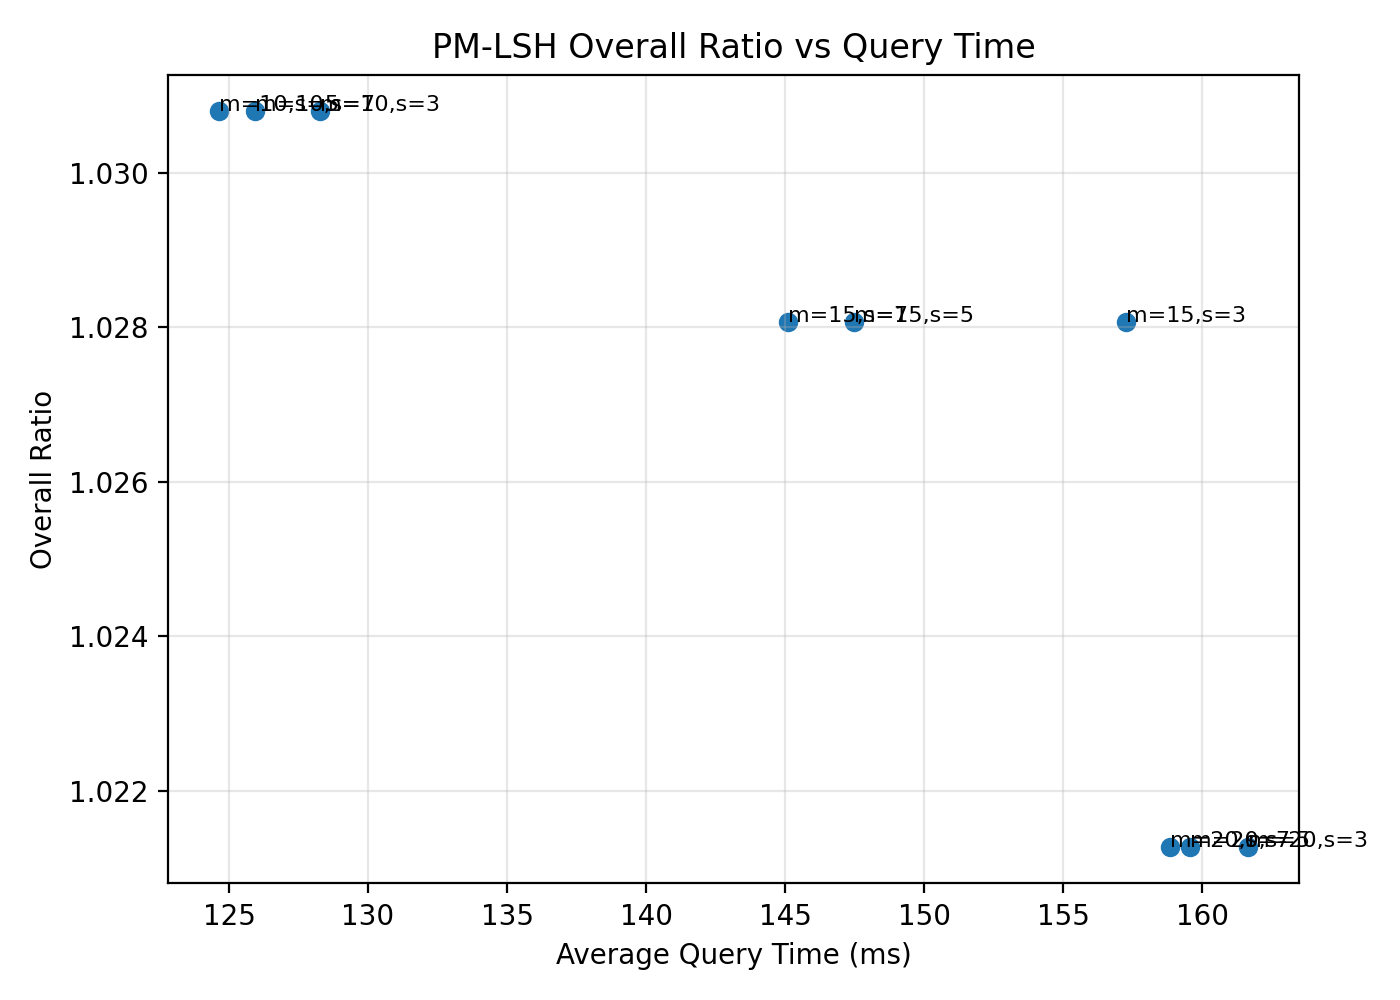
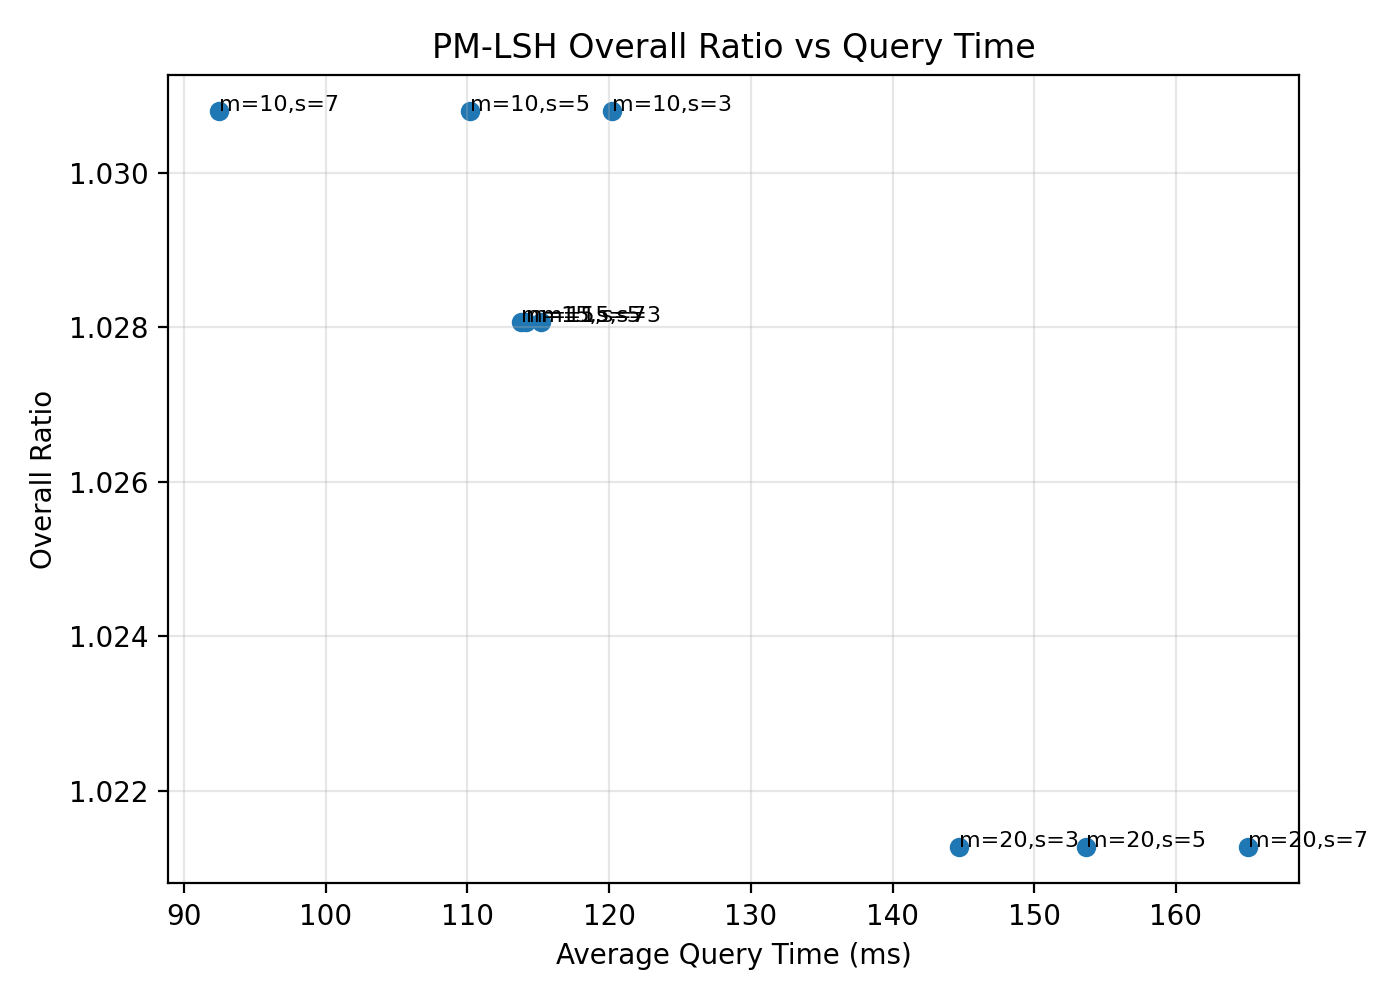
Fix benchmark timing, document honest results, clean repo
- evaluate.py: time PM-LSH and brute force separately (brute force was
  previously inside the PM-LSH timing loop); report brute-force ms and
  rerank fraction
- Rerun sweep; regenerate results CSV/JSON/plots
- README: results table, limitations (slower than brute force in pure
  Python, pivots do not affect recall)
- Rename gitignore to .gitignore, untrack __pycache__, add requirements.txt

diff --git a/evaluate.py b/evaluate.py
@@ -55,10 +55,16 @@ def evaluate_one_config(
     total_expansions = 0
     empty_results = 0
 
-    t0 = time.perf_counter()
+    query_time = 0.0
+    brute_time = 0.0
     for q, yq in zip(X_test[:n_queries], y_test[:n_queries]):
+        t0 = time.perf_counter()
         ids, dists, stats = model.query_ckann(q, k=k)
+        query_time += time.perf_counter() - t0
+
+        t0 = time.perf_counter()
         bf_ids, bf_dists = brute_force_topk(X_train, q, k=k)
+        brute_time += time.perf_counter() - t0
 
         approx_ids.append(ids)
         approx_dists.append(dists)
@@ -73,7 +79,6 @@ def evaluate_one_config(
             empty_results += 1
         elif y_train[ids[0]] == yq:
             same_label_hits += 1
-    query_time = time.perf_counter() - t0
 
     recall_vals = []
     ratio_vals = []
@@ -91,6 +96,8 @@ def evaluate_one_config(
         "build_time_sec": build_time,
         "query_total_time_sec": query_time,
         "avg_query_ms": query_time / n_queries * 1000.0,
+        "avg_bruteforce_ms": brute_time / n_queries * 1000.0,
+        "rerank_fraction": (total_candidates / n_queries) / len(X_train),
         "recall": float(np.mean(recall_vals)),
         "overall_ratio": float(np.mean(ratio_vals)) if ratio_vals else float("inf"),
         "same_label_accuracy": same_label_hits / n_queries,
@@ -192,9 +199,11 @@ def main():
                 "m",
                 "n_pivots",
                 "avg_query_ms",
+                "avg_bruteforce_ms",
                 "recall",
                 "overall_ratio",
                 "avg_candidates",
+                "rerank_fraction",
                 "avg_expansions",
                 "beta",
             ]

diff --git a/README.md b/README.md
@@ -1,41 +1,52 @@
-# PM-LSH-Style Research Reimplementation
+# PM-LSH in Python
 
-This project is a **research-style Python reimplementation** of the main PM-LSH framework described in:
+A from-scratch Python reimplementation of **PM-LSH** (Zheng et al., *PM-LSH: A Fast and Accurate LSH Framework for High-Dimensional Approximate Nearest Neighbor Search*, PVLDB 2020), evaluated on MNIST.
 
-> Zheng et al., **PM-LSH: A Fast and Accurate LSH Framework for High-Dimensional Approximate NN Search**, PVLDB 2020.
+This is **not** the authors' C++ code. It is a clean-room implementation of the paper's core ideas, written to understand the algorithm and measure its accuracy/cost trade-offs.
 
-It implements the paper's core ideas:
-- Gaussian random projections into an `m`-dimensional projected space
-- A **PM-tree** over projected points instead of flat hash buckets
-- A **chi-square confidence-interval mapping** from original-space radius to projected-space radius
-- A **range-expansion query algorithm** for `(c, k)`-ANN search
+## What it implements
 
-## Important note
+- **Gaussian random projection** from 784 dimensions down to `m` dimensions.
+- **PM-tree** (`pmtree.py`): a metric index over the projected points, with ball-partition nodes and pivot hyper-ring pruning, supporting Euclidean range queries.
+- **Chi-square confidence-interval mapping** (`pm_lsh.py`): maps an original-space radius to a projected-space radius, with `alpha2` solved in closed form from the paper's Equation 10 using `scipy.stats.chi2`.
+- **(c, k)-ANN query**: range expansion in projected space, then exact reranking of the candidates in the original space.
 
-This is **not** the authors' original C++ codebase and should not be described as an official reproduction. It is best described as:
+## Results
 
-- **faithful Python reimplementation of the PM-LSH framework**, or
-- **PM-LSH-inspired ANN system with PM-tree indexing and confidence-interval search**
+MNIST, 15,000 indexed vectors, 200 queries, k = 10, c = 1.5, seed 42. Recall is recall@10 against exact brute-force search. Overall ratio is the mean of approximate / exact neighbor distance (1.0 is perfect).
+
+| m | Recall@10 | Overall ratio | Candidates reranked | Fraction of dataset reranked |
+|---|-----------|---------------|---------------------|------------------------------|
+| 10 | 0.703 | 1.031 | 693 | 4.6% |
+| 15 | 0.731 | 1.028 | 473 | 3.2% |
+| 20 | **0.778** | **1.021** | 434 | 2.9% |
+
+The best configuration (m = 20) returns 78% of the true top-10 neighbors, and the distances it returns are within 2.1% of the exact ones on average, while computing exact distances for only 2.9% of the dataset. Full per-run numbers are in [`pm_lsh_outputs/pm_lsh_results.csv`](pm_lsh_outputs/pm_lsh_results.csv).
+
+## Honest limitations
+
+- **It is slower than brute force here.** Average query time is roughly 90-165 ms for PM-LSH versus roughly 35 ms for a vectorized NumPy brute-force scan of 15K vectors. The tree is pure Python, so per-node overhead dominates, and at this scale (15K points) a single matrix operation is hard to beat. The savings in exact distance computations would only turn into wall-clock speedups with a compiled tree and a much larger dataset.
+- **Pivot count did not change recall.** Pivots only affect pruning, not which points qualify, so recall is identical for 3, 5 and 7 pivots; only query time differs, and the differences are small and noisy.
+- **Small scale.** Only MNIST at 15K points was tested, not million-scale data.
+- The "same-label accuracy" column in the CSV (fraction of queries whose top result shares the query's digit label) is a sanity check, not a standard ANN metric.
 
 ## Files
 
-- `pmtree.py` — PM-tree metric index with pivot-ring pruning and Euclidean range queries
-- `pm_lsh.py` — PM-LSH index, projection logic, confidence interval parameterization, and `(c, k)`-ANN search
-- `datasets.py` — MNIST loader and brute-force exact baseline
-- `evaluate.py` — experiment runner and plotting
-
-## Install
-
-```bash
-pip install numpy pandas matplotlib scikit-learn
-```
+| File | Purpose |
+|------|---------|
+| `pmtree.py` | PM-tree index with pivot-ring pruning and Euclidean range queries |
+| `pm_lsh.py` | PM-LSH index: projection, confidence-interval parameters, (c, k)-ANN search |
+| `datasets.py` | MNIST loader and brute-force exact baseline |
+| `evaluate.py` | Sweeps `m` and pivot count, times PM-LSH and brute force separately, writes CSV/JSON/plots |
 
 ## Run
 
 ```bash
+pip install -r requirements.txt
 python evaluate.py --train-size 15000 --test-size 2000 --queries 200 --k 10
 ```
 
-Outputs are saved under `pm_lsh_outputs/`.
+Outputs go to `pm_lsh_outputs/`.
 
-
+![Recall vs query time](pm_lsh_outputs/recall_vs_time.png)
+![Overall ratio vs query time](pm_lsh_outputs/ratio_vs_time.png)
